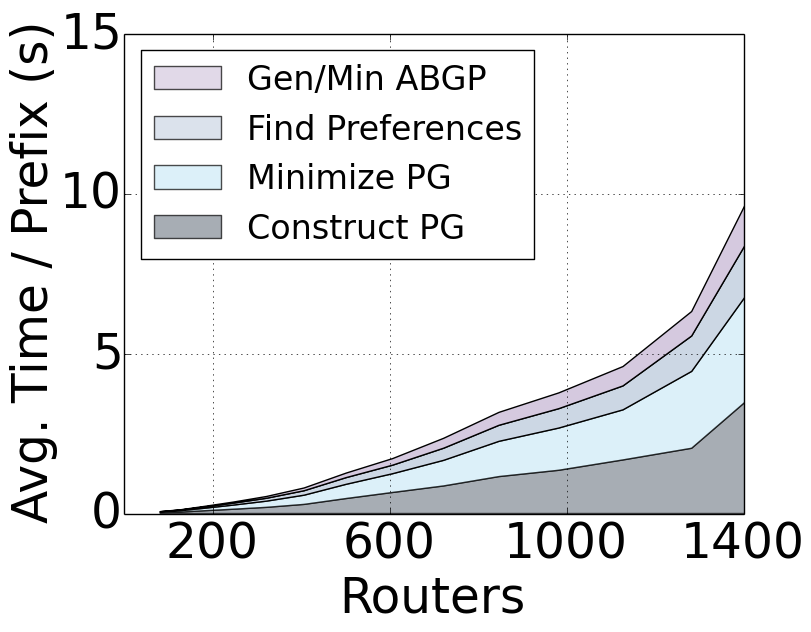
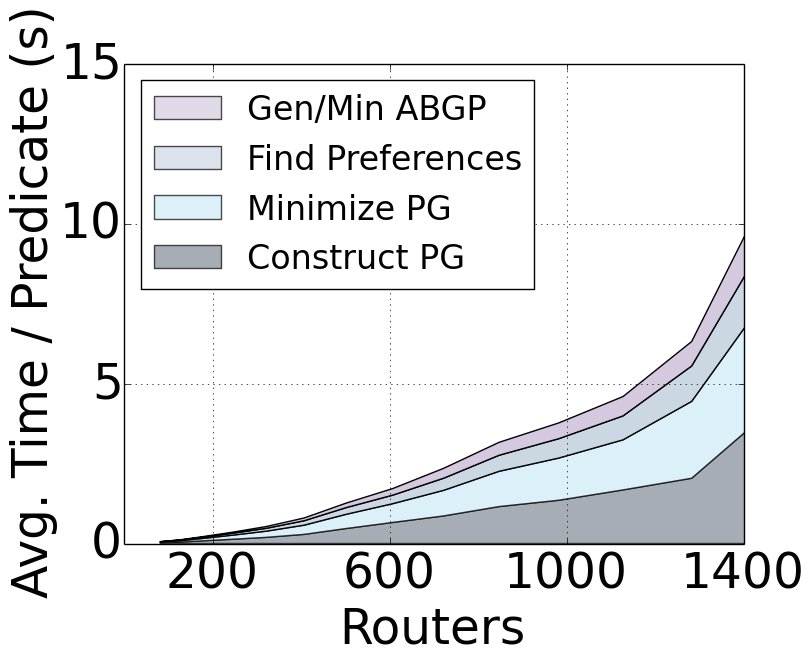
italicize latin. change graph labels

Changed region(s): [[0.0, 0.0, 0.9864, 0.9921], [0.1233, 0.5111, 0.1541, 0.6013]]

diff --git a/paper/v2/paper-edited.tex b/paper/v2/paper-edited.tex
@@ -217,11 +217,10 @@ David Walker\\
 \textbf{Abstract---}
 We develop \sysname, a language and compiler to help network operators with a challenging, error-prone task---bridging the gap between network-wide routing objectives and low-level configurations of devices that run complex, distributed protocols.
 %
-The language allows operators to specify their objectives naturally, using high-level constraints on and ordered preferences for paths that traffic should take.
-%through their network or other networks.
-%using ranked sets of paths which may be partial or end-to-end and may also refer to other networks.
+The language allows operators to specify their objectives naturally, using 
+high-level constraints on both the shape and relative preferences of traffic paths.
 %
-The compiler automatically translates these specifications to router-level BGP configurations, using a novel data structure that compactly encodes the flow of routing information along policy-compliant paths.
+The compiler automatically translates these specifications to router-level BGP configurations, using an effective intermediate representation that compactly encodes the flow of routing information along policy-compliant paths.
 %It uses We introduce data structures and algorithms that
 It guarantees that the compiled configurations correctly implement the specified policy under all possible combinations of failures.
 %
@@ -297,22 +296,9 @@ We show that \sysname can effectively express the policies of datacenter and bac
 \label{sec:introduction}
 
 It is well known that configuring networks is error
-prone and such errors can lead to disruptive
+prone and that such errors can lead to disruptive
 downtimes~\cite{mahajan+:bgp-misconfiguration,feamster+:rcc,batfish,dc-failure-study}.
 For instance, a recent misconfiguration led to an hour-long, nation-wide outage for Time Warner's backbone network~\cite{time-warner}; and a major BGP-related incident makes international news every few months~\cite{bgpmon}.
-
-%For instance, in the context of BGP, Mahajan~~\cite{mahajan+:bgp-misconfiguration}
-%estimated that 200-1200 prefixes suffered from
-%misconfiguration each day and that close to 3 in 4 of all
-%new prefix advertisements were the result of misconfiguration.
-%Moreover, these misconfigurations sometimes cause significant network downtime for
-%individual networks~\cite{time-warner} or even broader internet connectivity problems~\cite{routing-instability,mahajan+:bgp-misconfiguration}.
-%\dpw{Note that \cite{time-warner} and I am not sure about the specifics of the problem there
-%or what exactly was misconfigured.  It is also unclear if our language really helps with the
-%``broader internet connectivity problems'' however, I thought that adding some specific examples
-%would help make the intro more compelling.  Feel free to rewrite.}
-
-%One reason for network configuration being onerous is that device configuration languages are low-level and several configuration elements must be kept consistent (e.g., interface addresses) for the device to behave as intended.
 
 A fundamental reason for the prevalence of misconfigurations is the
 semantic mismatch between the intended high-level
@@ -522,7 +508,7 @@ BGP is a path-vector routing protocol that connects autonomous systems (ASes). A
 
 When a route announcement is received by an AS, it is processed by custom import filters that may drop the announcement or modify some attributes. If multiple announcements for the same prefix survive import filters, the router selects the best one based on local policy (see below). This route is then used to send traffic to the destination. It is also advertised to the neighbors, after processing through neighbor-specific export filters that may stop the announcement or modify some attributes.
 
-All routing announcements are accompanied by an AS-path attribute that reflects the sequence of ASes that the announcement has traversed thus far. While the AS-path attribute has a global meaning, some attributes are meaningful only within an AS or between neighboring ASes.  One such attribute is a list of community strings. ASes use such strings to color routes on different criteria (e.g., ``entered on West Coast'') and then use the color later in the routing process.  Communities are also used to signal to neighbors how they should handle an announcement (e.g., do not export it further). Another non-global attribute is the multi-exit discriminator (MED). It is used when an AS has multiple links to a neighboring AS.  Its (numeric) values signal to the neighbor how this AS prefers to receive traffic among those links.
+All routing announcements are accompanied by an AS-path attribute that reflects the sequence of ASes that the announcement has traversed thus far. While the AS-path attribute has a global meaning, some attributes are meaningful only within an AS or between neighboring ASes.  One such attribute is a list of community strings. ASes use such strings to associate network-specific information with particular routes (\EG, ``entered on West Coast'') and then use the information later in the routing process.  Communities are also used to signal to neighbors how they should handle an announcement (\EG, do not export it further). Another non-global attribute is the multi-exit discriminator (MED). It is used when an AS has multiple links to a neighboring AS.  Its (numeric) values signal to the neighbor how this AS prefers to receive traffic among those links.
 
 The route selection process assigns a {\em local preference} to each
 route that survives the import filters. Routes with higher local
@@ -617,14 +603,14 @@ Templates help to an extent by keeping preference and community values consisten
 
  While configuring policies for a fully functional network is difficult, ensuring policy compliance in the face of failures can be almost impossible. Consider the datacenter network in Figure~\ref{fig:example2} with routers organized as a fat tree and running BGP.\footnote{For scale and policy flexibility, datacenter networks increasingly use BGP internally, with a private AS number per router~\cite{bgp-in-dc}.} The network has two clusters, one with services that should be reachable globally and one with services that should be accessible only internally. This policy is enabled by using non-overlapping address space in the two clusters and ensuring that only the address space for the global services is announced externally. Further, to reduce the number of prefixes that are announced externally, the global space is aggregated into a less-specific prefix \CD{PG}. The semantics of aggregation is that the aggregate prefix is announced as long as the router has a path to at least one sub-prefix.
 
-The operator may implement the policy by having X and Y: $i)$ not export externally what they hear from G and H, routers that belong to the local services cluster; and $ii)$ export externally what they hear from routers C and D and aggregate to \CD{PG} if an announcement is subset of \CD{PG}. This implementation is appealing because X and Y do not need to be made aware of which prefixes are global versus local and IP address assignment can occur independently, e.g., local services can be assigned new prefixes without updating those routers' configurations.
+The operator may implement the policy by having X and Y: $i)$ not export externally what they hear from G and H, routers that belong to the local services cluster; and $ii)$ export externally what they hear from routers C and D and aggregate to \CD{PG} if an announcement is subset of \CD{PG}. This implementation is appealing because X and Y do not need to be made aware of which prefixes are global versus local and IP address assignment can occur independently, \EG, local services can be assigned new prefixes without updating those routers' configurations.
 
 
-However, this implementation has incorrect behavior in the face of failures. Suppose links X--G and X--H fail. Then, X will hear announcements for \CD{PL*} from C and D, having traversed from G and H to Y to C and D. Per its policy implementation, X will start "leaking" these prefixes externally. Depending on the rationale for local services, this leak could impact security (e.g., if the services are sensitive) or availability (e.g., if the \CD{PL*} prefixes are reused for other services outside of the datacenter). This problem does not manifest without failures because then X has and prefers paths to \CD{PL*} through G and H since they are shorter. A similar problem will occur if links Y--G and Y--H fail.
+However, this implementation has incorrect behavior in the face of failures. Suppose links X--G and X--H fail. Then, X will hear announcements for \CD{PL*} from C and D, having traversed from G and H to Y to C and D. Per its policy implementation, X will start "leaking" these prefixes externally. Depending on the rationale for local services, this leak could impact security (\EG, if the services are sensitive) or availability (\EG, if the \CD{PL*} prefixes are reused for other services outside of the datacenter). This problem does not manifest without failures because then X has and prefers paths to \CD{PL*} through G and H since they are shorter. A similar problem will occur if links Y--G and Y--H fail.
 %\footnote{A different problem occurs when links X--C and X--D (or Y--C and Y--D) fail. X (Y) may stop announcing the global prefixes because they would be heard through G and H.}
 Link failures in datacenters are frequent and it is not uncommon to have many failed links at a given time~\cite{dc-failure-study}.
 
-To avoid this problem, the operator may disallow "valley" paths, i.e., those that go up, down, and back up again. This guard can be implemented by $X$ and $Y$ rejecting paths through the other. But that creates a different problem in the face of failures---an aggregation-induced black hole~\cite{route-aggregation}. If links D--A and X--C fail, X will hear an announcement for \CD{PG2} from D and will thus announce \CD{PG} externally. This announcement will bring to X traffic for \CD{PG1} as well, but because valleys are disallowed, X does not have a valid route for \CD{PG1} and will drop all traffic for it despite the fact that a valid path exists through $Y$.
+To avoid this problem, the operator may disallow "valley" paths, \IE, those that go up, down, and back up again. This guard can be implemented by $X$ and $Y$ rejecting paths through the other. But that creates a different problem in the face of failures---an aggregation-induced black hole~\cite{route-aggregation}. If links D--A and X--C fail, X will hear an announcement for \CD{PG2} from D and will thus announce \CD{PG} externally. This announcement will bring traffic for \CD{PG1} to X as well, but because valleys are disallowed, X does not have a valid route for \CD{PG1} and will drop all traffic for it despite the fact that a valid path exists through $Y$.
 
 Thus, we see that devising a configuration that ensures policy compliance in the face of failures is complex and error-prone. \sysname lets operators implement their high-level policy specification in a way that guarantees compliance under all failures if possible---otherwise, it generates a compile-time error. For aggregation, it also provides a lower bound to operators on the number of failures under which aggregation will not result in black holes.
 
@@ -674,7 +660,7 @@ no controller at runtime, so the routers must be configured in advance to handle
 %
 In \sysname, we enable such specifications through {\em path preferences}, with the semantics that a less-preferred path is taken only when a higher-preference path is unavailable in the network.
 %
-Second, paths in a control-plane policy may be under-specified (e.g.,
+Second, paths in a control-plane policy may be under-specified (\EG,
 "prefer customer" does not indicate a concrete path). The \sysname
 compiler treats such under-specifications as constraints on the set of
 allowed paths and automatically computes valid sets based on the topology.
@@ -1089,14 +1075,14 @@ configurations as needed.
 
 %\para{Syntax}
 The \sysname FE is just a thin layer atop the RIR for describing preference-based path constraints.
-Figure~\ref{fig:rir-syntax} shows the RIR syntax. A policy has one or more constraints, each of which has a test on the type of route and a corresponding set of preferred regular paths. Regular paths are regular expressions where the base characters are abstract locations representing either a router or an external AS. Special \In{} and \Out{} symbols refer to any internal or external location respectively. In addition, $\Sigma$ refers to any symbol. We also use the standard regular expression abbreviation $r^+$ for $r \cdot r^*$, a sequence of one or more occurrences of $r$. Predicates ($t$) consist of logical boolean connectives (and, or, not) as well as tests that match a particular prefix (or group of prefixes) and tests for route advertisements with a particular community value (i.e., an integer value associated with a path).
+Figure~\ref{fig:rir-syntax} shows the RIR syntax. A policy has one or more constraints, each of which has a test on the type of route and a corresponding set of preferred regular paths. Regular paths are regular expressions where the base characters are abstract locations representing either a router or an external AS. Special \In{} and \Out{} symbols refer to any internal or external location respectively. In addition, $\Sigma$ refers to any symbol. We also use the standard regular expression abbreviation $r^+$ for $r \cdot r^*$, a sequence of one or more occurrences of $r$. Predicates ($t$) consist of logical boolean connectives (and, or, not) as well as tests that match a particular prefix (or group of prefixes) and tests for route advertisements with a particular community value (\IE, an integer value associated with a path).
 %% For example, the constraint
 %% \[(\textit{prefix}=74.3.28.0/24) \Link \\
 %% (as200 \cdot \In^+) \Prefer (as100 \cdot \In^+)
 %% \]
 %% describes a more-preferred set of paths for traffic announced by a prefix no less specific than \CD{74.125.28.0/24}, which starts at AS 200, before entering and staying inside the user's network to get to the destination, and a less-preferred set of paths that start at AS 100 and are otherwise the same. The plus operator $\In^+$ stands for $\In \cdot \In^*$, at least one internal hop. Tests over route types use standard boolean connectives, and can refer to both prefixes and route community values.
 
-\sysname also supports constraints purely on the control-plane behavior of BGP. For example, prefix aggregation is an important optimization to reduce routing table size and churn in practice. A constraint of the form $agg(x,l)$ tells the compiler to perform aggregation for prefix $x$ across all links described by $l$. It is also often useful to be able to add community tags to exported routes in BGP (e.g., to communicate non-standard information to peers). A constraint of the form $tag(c,t,l)$ adds community tag $c$ for any prefixes matching $t$ across links $l$.
+\sysname also supports constraints purely on the control-plane behavior of BGP. For example, prefix aggregation is an important optimization to reduce routing table size and churn in practice. A constraint of the form $agg(x,l)$ tells the compiler to perform aggregation for prefix $x$ across all links described by $l$. It is also often useful to be able to add community tags to exported routes in BGP (\EG, to communicate non-standard information to peers). A constraint of the form $tag(c,t,l)$ adds community tag $c$ for any prefixes matching $t$ across links $l$.
 %% Aggregation, for example, from internal to external locations, is specified using the same regular syntax as before:
 %% $$\Agg(128.17.0.0/16, \In \Link \Out)$$
 %% where the expression $\In \Link Out$ refers to control messages flowing from any internal to any external location.
@@ -1152,7 +1138,7 @@ The next step rewrites the high-level constraints such as $\Enter$ according to 
 \end{array}
 \]
 %
-where $\odot$ stands for an arbitrary regular binary operator, and $r$ is a policy with a single preference. The compiler flags preferences nested under a unary operator (i.e., \textit{star} or \textit{negation}) as invalid.
+where $\odot$ stands for an arbitrary regular binary operator, and $r$ is a policy with a single preference. The compiler flags preferences nested under a unary operator (\IE, \textit{star} or \textit{negation}) as invalid.
 
 
 
@@ -1234,7 +1220,7 @@ Now that the user policy exists in a simplified form, we must consider the topol
 
 % Formally define automata
 %The RIR policy is an ordered sequence of regular expressions $r_1 \Prefer \dots \Prefer r_j$.
-While paths in an RIR policy describe the direction traffic flows through the network, to implement the policy with BGP we are concerned about the way control-plane information is disseminated, i.e., route announcements flowing in the opposite direction. To capture this idea, for each regular expression $r_i$ in RIR policy, we construct a deterministic finite state machine on the reversed regular expression. Each automaton for the reversed regular expression of $r_i$ is a tuple ($\Sigma, Q_i, F_i, q_{0_i}, \sigma_i$). The alphabet $\Sigma$ consists of all abstract locations (i.e., routers or ASes), $Q_i$ is the set of states for automaton i, $F_i$ is the set of final states, $q_{0_i}$ is the initial state, and $\sigma_i \colon Q_i \times \Sigma \rightarrow Q_i$ is the state transition function.
+While paths in an RIR policy describe the direction traffic flows through the network, to implement the policy with BGP we are concerned about the way control-plane information is disseminated, \IE, route announcements flowing in the opposite direction. To capture this idea, for each regular expression $r_i$ in RIR policy, we construct a deterministic finite state machine on the reversed regular expression. Each automaton for the reversed regular expression of $r_i$ is a tuple ($\Sigma, Q_i, F_i, q_{0_i}, \sigma_i$). The alphabet $\Sigma$ consists of all abstract locations (\IE, routers or ASes), $Q_i$ is the set of states for automaton i, $F_i$ is the set of final states, $q_{0_i}$ is the initial state, and $\sigma_i \colon Q_i \times \Sigma \rightarrow Q_i$ is the state transition function.
 %
 % Formally define topology
 The topology is represented as a graph ($V, E$), which consists of a set of vertices $V$ and a set of directed edges $E \colon V \times V$.
@@ -1247,9 +1233,9 @@ a unique starting vertex $s$,
 a unique ending vertex $e$,
 and a preference function $P \colon V' \rightarrow 2^{\set{1, \dots, j}}$ , which maps nodes in the product graph to a set of preference ranks.
 
-For a PGIR vertex $n = (l, \dots) \in V'$, we say that $n$ is a \emph{shadow} of topology location $l$, written as $\tilde{n} = l$, to indicate that the topology location for node $n$ is $l$. When two PGIR nodes $m$ and $n$ shadow the same topology location (i.e., $\tilde{m} = \tilde{n}$), we write $m \approx n$.
+For a PGIR vertex $n = (l, \dots) \in V'$, we say that $n$ is a \emph{shadow} of topology location $l$, written as $\tilde{n} = l$, to indicate that the topology location for node $n$ is $l$. When two PGIR nodes $m$ and $n$ shadow the same topology location (\IE, $\tilde{m} = \tilde{n}$), we write $m \approx n$.
 
-Throughout the remainder of the paper, we will the convention that metavariables $m$ and $n$ stand for PGIR nodes and $l$ stands for a topology location. Captial letters like $X$, $Y$ refer to concrete topology locations, while capital letters with subscripts such as $X_1$ and $X_2$ refer to concrete PGIR nodes that share a topology location (i.e., $\tilde{X_1}$ = $\tilde{X_2} = X$).
+Throughout the remainder of the paper, we will the convention that metavariables $m$ and $n$ stand for PGIR nodes and $l$ stands for a topology location. Captial letters like $X$, $Y$ refer to concrete topology locations, while capital letters with subscripts such as $X_1$ and $X_2$ refer to concrete PGIR nodes that share a topology location (\IE, $\tilde{X_1}$ = $\tilde{X_2} = X$).
 
 \para{From RIR To PGIR}
 
@@ -1292,7 +1278,7 @@ For example, in Figure~\ref{fig:example-compilation}, the path $W \cdot A \cdot 
 
 We use graph dominators~\cite{tarjan-dominance} as a cheap approximation for removing many nodes and edges in the PGIR that are never on any \emph{simple} (loop free) path between the start and end nodes.
 In the PGIR, a node $m$ dominates a node $n$ if $m$ appears on every path leading from the start node to $n$. Similarly, a node $m$ post-dominates a node $n$ in the PGIR if $m$ appears on every path from $n$ to the end node.
-We can safely remove nodes and edges in the PGIR when any of the following conditions hold, where we have $m$, $m'$ and $n$, $n'$ such that $\tilde{m} = \tilde{m}'$ and $\tilde{n} = \tilde{n}'$.
+We can safely remove nodes and edges in the PGIR when any of the following conditions hold, where we have $m$, $m'$ and $n$, $n'$ such that $m \approx m'$ and $n \approx n'$.
 \begin{itemize}
 \setlength{\itemsep}{1pt}
 \setlength{\parskip}{0pt}
@@ -1411,7 +1397,7 @@ For each router in the topology, local preferences are now obtained by sorting t
 
 \begin{figure}[t!]
   \centering
-  \includegraphics[width=.7\columnwidth]{figures/loops}
+  \includegraphics[width=.6\columnwidth]{figures/loops}
   \caption{A Product Graph where preference inference is unsound before considering loops.}
   \label{fig:avoiding-loops}
   %\vspace{-1em}
@@ -1421,7 +1407,8 @@ For each router in the topology, local preferences are now obtained by sorting t
 
 \para{Avoiding Loops}
 
-The checks for failure safety described above overlook one critical point: A better (lower rank) path might not be available due to loops. BGP automatically rejects advertisements to a location where the locations is already contained in the AS path attribute.
+The checks for failure safety described above overlook one critical point: A better (lower rank) path might not be available due to loops rejected by BGP. 
+%BGP automatically rejects advertisements to a location where the locations is already contained in the AS path attribute.
 
 Consider the partial Product Graph shown in Figure~\ref{fig:avoiding-loops}. Our preference inference algorithm will determine that node $X_1$ should be locally preferred to node $X_2$ since this will result in a better (lower ranked) path to destination $A$. However, when applying Algorithm~\ref{alg:failures}, we failed to take into account the possibility of loops. In particular, node $A_2$ may be unusable for advertisements that go through $X_1$ since the advertisement may have already gone through $A_1$ previously. In this case, $X$ will have made the wrong choice since preferring $X_2$ would have resulted in a better path for the destination $A$ (a path of rank 3 instead of 4).
 
@@ -1429,7 +1416,7 @@ On the other hand, this would not have been a problem if paths ending at $A_1$ h
 %
 In fact, checking if we are never worse off using $A_1$ instead of $A_2$ corresponds exactly with determining if $A$ has a \textup{Regret-Free} preference for $A_1$ over $A_2$.
 %
-More specifically, the compiler checks that, any time there are two shadows $N_1$ and $N_2$ for the same topology location, where $N_1$ appears ``above'' (i.e., can reach) $N_2$ in the PGIR, then $N_1$ must be strictly preferred to $N_2$ (i.e., $N_1 <_{lp} N_2$).
+More specifically, the compiler checks that, any time there are two shadows $N_1$ and $N_2$ for the same topology location, where $N_1$ appears ``above'' (\IE, can reach) $N_2$ in the PGIR, then $N_1$ must be strictly preferred to $N_2$ (\IE, $N_1 <_{lp} N_2$).
 
 
 %It is fine however, to reuse the same nodes that appear above $x$, since any path that went through another node $z$ to get to $x$, but then looped through $z$ again, would be obtainable from $z$ itself.
@@ -1460,7 +1447,7 @@ Because each path chosen is both policy compliant and edge disjoint (due to ii),
 \end{figure}
 
 For example, recall the datacenter example from \S\ref{sec:motivation}, with the policy
-\CD{PG1} \Path \text{ }\End(\CD{A}), where \CD{PG1} falls under the \CD{PG} aggregate. Figure~\ref{fig:aggregation-safety} shows the simplified PGIR. Since the compiler knows aggregation will occur at $X$, and it knows that the \CD{PG1} prefix will originate at $A$, we can compute the number of failures it would take to disconnect $A$ from $X$. We could remove the $A$--$D$--$X$ path first. We would then need to remove any other $A$--$D$ or $D$--$X$ links from the PGIR (in this case none). Next, we could remove the links along the $A$--$C$--$X$ path, repeating the process. Because $A$ is then disconnected from $X$, the compiler knows that 2 is a lower bound on the number of failures required to potentially introduce an aggregation black hole for prefix \CD{PG1}. This process is repeated for other aggregation locations (e.g., $Y$).
+\CD{PG1} \Path \text{ }\End(\CD{A}), where \CD{PG1} falls under the \CD{PG} aggregate. Figure~\ref{fig:aggregation-safety} shows the simplified PGIR. Since the compiler knows aggregation will occur at $X$, and it knows that the \CD{PG1} prefix will originate at $A$, we can compute the number of failures it would take to disconnect $A$ from $X$. We could remove the $A$--$D$--$X$ path first. We would then need to remove any other $A$--$D$ or $D$--$X$ links from the PGIR (in this case none). Next, we could remove the links along the $A$--$C$--$X$ path, repeating the process. Because $A$ is then disconnected from $X$, the compiler knows that 2 is a lower bound on the number of failures required to potentially introduce an aggregation black hole for prefix \CD{PG1}. This process is repeated for other aggregation locations (\EG, $Y$).
 
 
 \subsection{Abstract BGP}
@@ -1541,13 +1528,13 @@ After configuration generation, the compiler further processes the ABGP policy, 
 \section{Implementation}
 \label{sec:implementation}
 
-Our \sysname compiler is implemented in roughly 6700 lines of F\# code. It includes command-line flags for enabling or disabling the use of the BGP MED attribute, AS path prepending, the no-export community, as well as for ensuring at least k-failure safety for aggregate prefixes. Since each prefix has a separate routing policy, we compile each routing policy in parallel. Currently, \sysname supports generating Quagga router configurations out of the box. Users can add new vendor-specific adapters to translate from ABGP to other router configuration languages, or incorporate the compiler into an existing template-based system, e.g., by mixing the \sysname-generated BGP configuration with other, non-BGP configuration elements.
+Our \sysname compiler is implemented in roughly 6700 lines of F\# code. It includes command-line flags for enabling or disabling the use of the BGP MED attribute, AS path prepending, the no-export community, as well as for ensuring at least k-failure safety for aggregate prefixes. Since each prefix has a separate routing policy, we compile each routing policy in parallel. Currently, \sysname supports generating Quagga router configurations out of the box. Users can add new vendor-specific adapters to translate from ABGP to other router configuration languages, or incorporate the compiler into an existing template-based system, \EG, by mixing the \sysname-generated BGP configuration with other, non-BGP configuration elements.
 
 Our compiler includes the following features that improve its performance and usability.
 
 \para{Efficient PGIR construction}
 
-Constructing automata for extended regular expressions (i.e., regular expressions with negation and intersection operations) is known to have high complexity~\cite{regex-complexity}. The \sysname compiler uses regular expressions derivatives~\cite{regex-derivatives} with character classes to construct deterministic automata for extended regular expressions efficiently. Since regular expressions are defined over a finite alphabet, and since much of the AS topology is unknown, we set the alphabet to include all uniquely referenced external ASes in the policy. To model the unknown external AS topology beyond immediate peers, we include a special topology node to represent any unknown location.
+Constructing automata for extended regular expressions (\IE, regular expressions with negation and intersection operations) is known to have high complexity~\cite{regex-complexity}. The \sysname compiler uses regular expressions derivatives~\cite{regex-derivatives} with character classes to construct deterministic automata for extended regular expressions efficiently. Since regular expressions are defined over a finite alphabet, and since much of the AS topology is unknown, we set the alphabet to include all uniquely referenced external ASes in the policy. To model the unknown external AS topology beyond immediate peers, we include a special topology node to represent any unknown location.
 %
 Rather than construct the product graph in full, our implementation prevents exploring parts of the graph during construction when no automata has a reachable accepting state.
 
@@ -1567,7 +1554,7 @@ The naive code generation algorithm described in \S\ref{sec:compilation} is extr
 \para{Checking policy correctness}
 
 Even when programming the network centrally, it is possible for operators to make mistakes and write incorrect policies.
-\sysname includes many analyses to identify common mistakes at compile time. A subset includes: (i) a preference analysis to determine when backup paths/preferences will never be used, (ii) a reachability analysis to check if locations that should be reachable according to the policy are not reachable after combining both the topology and policy, (iii) an anycast analysis to find instances where the operator might accidentally anycast a prefix (i.e., originates the prefix from multiple locations), (iv) an aggregate analysis to find when aggregates do not summarize any specific prefix.
+\sysname includes many analyses to identify common mistakes at compile time. A subset includes: (i) a preference analysis to determine when backup paths/preferences will never be used, (ii) a reachability analysis to check if locations that should be reachable according to the policy are not reachable after combining both the topology and policy, (iii) an anycast analysis to find instances where the operator might accidentally anycast a prefix (\IE, originates the prefix from multiple locations), (iv) an aggregate analysis to find when aggregates do not summarize any specific prefix.
 
 
 
@@ -1591,7 +1578,7 @@ We apply \sysname on real policies for backbone and datacenter networks. Our mai
 
 We obtained routing policy for Microsoft's backbone network and datacenters. Multiple datacenters share this policy. The backbone network connects to the datacenters and also has many external BGP neighbors. The high-level policies of these networks are captured in an English document which guides operators when writing configuration templates for datacenter routers or actual configurations for the backbone network (where templates are not used because the network has a less regular structure).
 
-The networks have the types of policies that we outlined earlier (\S\ref{sec:motivation}). The backbone network classifies external neighbors into several different categories and prefers paths through them in order. It does not want to provide transit among certain types of neighbors. For some neighbors, it prefers some links over the others. It supports communities based on which it will not announce certain routes externally or announce them only within a geographic region (e.g., West Coast of the USA). Finally, it has many filters, e.g., to prevent bogons (private address space) from external neighbors, prevent customers from providing transit to other large networks, prevent traversing providers through peers, etc.
+The networks have the types of policies that we outlined earlier (\S\ref{sec:motivation}). The backbone network classifies external neighbors into several different categories and prefers paths through them in order. It does not want to provide transit among certain types of neighbors. For some neighbors, it prefers some links over the others. It supports communities based on which it will not announce certain routes externally or announce them only within a geographic region (\EG, West Coast of the USA). Finally, it has many filters, \EG, to prevent bogons (private address space) from external neighbors, prevent customers from providing transit to other large networks, prevent traversing providers through peers, \ETC
 
 Routers in the datacenter network run BGP using private AS numbers and peer with each other and with the backbone network over eBGP. The routers aggregate some prefix blocks when announcing them to the backbone network, they keep some prefixes internal, and attach communities for some other prefixes that should not traverse beyond the geographic region. The datacenter networks also have policies by which some prefixes should not be announced beyond a certain tier in the datacenter hierarchy.
 
@@ -1681,7 +1668,7 @@ However, even minimized configurations are hundreds or thousands of lines per ro
 
 \subsection{Propane vs. operator configurations}
 
-We comment briefly on how \sysname-generated configurations differ from configurations or templates generated by operators.
+We comment briefly on how \sysname-generated configurations differ from configurations or templates written by operators.
 %
 In some ways, \sysname configurations are similar. For example, preferences among neighboring ASes are implemented with a community value to tag incoming routes according to preference, which is then used at other border routers to influence decisions.
 
@@ -1696,7 +1683,7 @@ $iii)$ operators used a layer of indirection for community values, using communi
 
 $iv)$ operators used BGP regular expression filters to enforce certain invariants that are independent of any particular prefix, whereas \sysname enforced these invariants per prefix.
 
-We are investigating if such differences matter to operators, e.g., if they want to read \sysname configurations, and, if necessary, how to reduce them.
+We are investigating if such differences matter to operators, \EG, if they want to read \sysname configurations, and, if necessary, how to reduce them.
 
 
 
@@ -1721,7 +1708,7 @@ as well as path queries~\cite{queries}.
 Each of these languages is oriented around regular expressions, which
 describe paths through a network, and predicates, which classify packets.
 In particular, FatTire allows programmers to define sets of paths together
-with a fault tolerance level (\emph{i.e.,} tolerate 1 or 2 faults)
+with a fault tolerance level (\IE, tolerate 1 or 2 faults)
 and the compiler generates appropriate OpenFlow rules.
 \sysname is more expressive as it allows users to specify preferences among
 paths, and it generates distributed implementations that tolerate any number of faults.

diff --git a/data/backbone.py b/data/backbone.py
@@ -78,7 +78,7 @@ ax1.fill_between(num_nodes, y_stack[0,:], y_stack[1,:], facecolor=color2, alpha=
 ax1.fill_between(num_nodes, y_stack[1,:], y_stack[2,:], facecolor=color3)
 ax1.fill_between(num_nodes, y_stack[2,:], y_stack[3,:], facecolor=color4)
 ax1.set_xlabel('Routers', fontsize=35)
-ax1.set_ylabel('Avg. Time / Prefix (s)', fontsize=35)
+ax1.set_ylabel('Avg. Time / Predicate (s)', fontsize=35)
 ax1.tick_params(axis='both', which='major', labelsize=35)
 ax1.tick_params(axis='both', which='minor', labelsize=35)
 ax1.xaxis.set_ticks([0,40,80,120,160,200])

diff --git a/data/datacenter.py b/data/datacenter.py
@@ -79,7 +79,7 @@ ax1.fill_between(num_nodes, y_stack[1,:], y_stack[2,:], facecolor=color3)
 ax1.fill_between(num_nodes, y_stack[2,:], y_stack[3,:], facecolor=color4)
 #ax1.fill_between(num_nodes, y_stack[3,:], y_stack[4,:], facecolor=color5)
 ax1.set_xlabel('Routers', fontsize=35)
-ax1.set_ylabel('Avg. Time / Prefix (s)', fontsize=35)
+ax1.set_ylabel('Avg. Time / Predicate (s)', fontsize=35)
 ax1.tick_params(axis='both', which='major', labelsize=35)
 ax1.tick_params(axis='both', which='minor', labelsize=35)
 ax1.set_xlim([0,1400])
